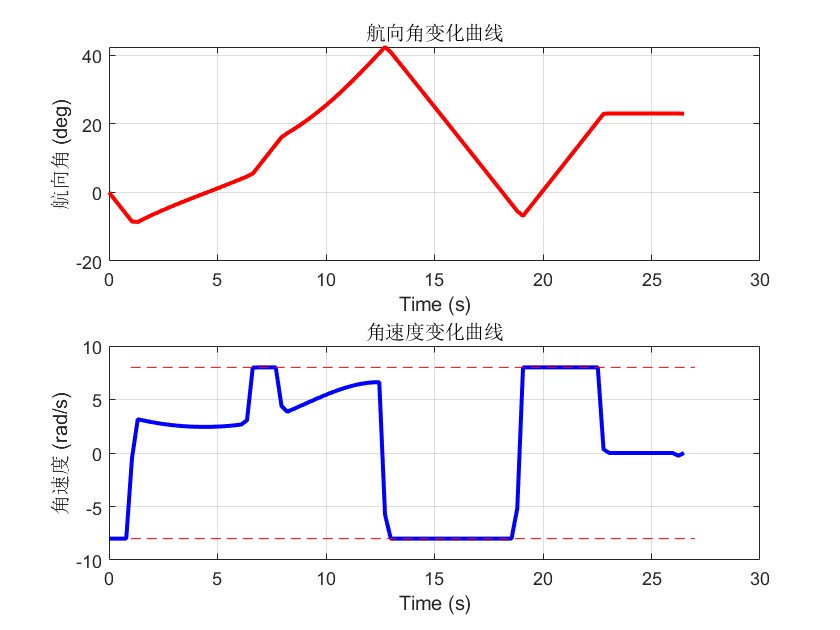
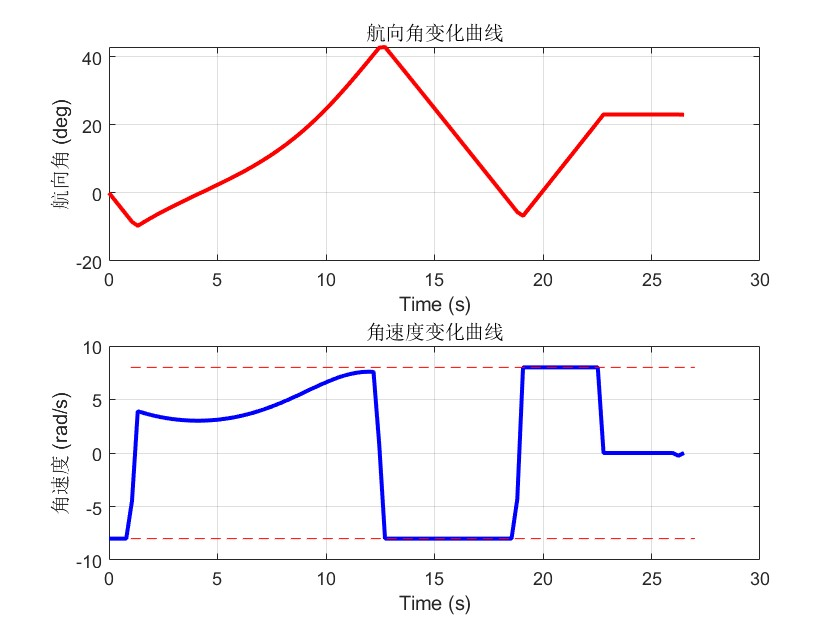
update

diff --git a/TrajectoryPlanning/AvoidandeZone/parameters.m b/TrajectoryPlanning/AvoidandeZone/parameters.m
@@ -2,7 +2,7 @@ function parameters()
     tf=26.5;%总时间 单位[s]
     N=100;%离散点数
     dt=tf/N;%时间间隔
-    max_iterations=3;%最大迭代次数
+    max_iterations=5;%最大迭代次数
     USE_ITERATION=false;%使用迭代条件
     vel=1;%单位 m/s
     z0=[0;0;0];%初始条件
@@ -10,7 +10,7 @@ function parameters()
     % approach cone约束参数
     cone_deg=6;
     cone_horizon_deg=20;
-    Inside_cone_percent=0.2;%在cone内的点数占总点数的百分比
+    Inside_cone_percent=0.1;%在cone内的点数占总点数的百分比
 
     w_max_deg=8;
     w_max_rad=w_max_deg*pi/180;
@@ -36,7 +36,7 @@ function parameters()
     %定义障碍物参数
     obstacles = [
         struct('xc', 5, 'yc', -2.2, 'a', 2, 'b', 1.8);   % 障碍物1
-        struct('xc', 7, 'yc', 2, 'a', 2, 'b', 2.2);     % 障碍物2  
+        struct('xc', 7, 'yc', 2, 'a', 2, 'b', 2.1);     % 障碍物2  
         struct('xc', 16, 'yc', 1, 'a', 3, 'b', 3); % 障碍物3
     ];
     % 保存所有变量到para.mat

diff --git a/TrajectoryPlanning/LaneChange/parameters.m b/TrajectoryPlanning/LaneChange/parameters.m
@@ -3,6 +3,7 @@ function parameters()
     N=100;%离散点数
     dt=tf/N;%时间间隔
     max_iterations=5;%最大迭代次数
+    USE_ITERATION=false;%使用迭代条件
     vel=7;%单位 m/s
     z0=[0;1.75;0];%初始条件
     zf=[100;5.25];%终点位置
@@ -34,7 +35,7 @@ function parameters()
     ];
     % 保存所有变量到para.mat
     filePath = fullfile(pwd, 'para.mat');
-    save(filePath, 'tf', 'z0', 'zf','yc1','yc2', ...
+    save(filePath, 'tf', 'z0', 'zf','yc1','yc2','USE_ITERATION', ...
          'w_max_deg', 'w_max_rad','change_idx',...
          'N', 'k1', 'k2', 'k3',  'vel','Ac','Bc',...
          'A','B','dt','obstacles','max_iterations','epsilon_x','epsilon_y');

diff --git a/TrajectoryPlanning/LaneChange/solve_problemD.m b/TrajectoryPlanning/LaneChange/solve_problemD.m
@@ -45,13 +45,13 @@ function results=solve_problemD(x_init,y_init,params)
 
         max_delta_x(k)=max(abs(solution.z(1,:)-x_prev'));
         max_delta_y(k)=max(abs(solution.z(2,:)-y_prev'));
-        %{
-        if max_delta_x(k)<=params.epsilon_x && ...
-           max_delta_y(k)<=params.epsilon_y
-            act_iterations=k;
-            break;
+        if params.USE_ITERATION==true
+            if max_delta_x(k)<=params.epsilon_x && ...
+            max_delta_y(k)<=params.epsilon_y
+                act_iterations=k;
+                break;
+            end
         end
-        %}
     end
     %存储结果
     results.z_history=z_history;

diff --git a/TrajectoryPlanning/复现结果.md b/TrajectoryPlanning/复现结果.md
@@ -17,20 +17,42 @@
 ### 迭代历史：
 | k | $max\vert\Delta x_i\vert(m)$ | $max\vert\Delta y_i\vert(m)$ | computation time(ms)|
 |:-:|:--------------------:|:--------------------:|:-------------------:|
-| 1 | 0.355628 | 1.568546 | 11.1 |
-| 2 | 0.191471 | 0.342022 | 10.6 |
-| 3 | 0.009585 | 0.029001 | 9.8 |
-| 4 | 0.000054 | 0.000157 | 9.7 |
+| 1 | 0.441510 | 1.489213 | 10.4 |
+| 2 | 0.142055 | 0.447953 | 8.1 |
+| 3 | 0.003463 | 0.020342 | 9.2 |
+| 4 | 0.000044 | 0.000131 | 9.1 |
 
-## 总结
-1. 复现结果体现了论文的核心要点：
+## 总结与思考
+### 1. 复现结果体现了论文的核心要点：
   - `快速收敛`：经过三次迭代就达到了 $\epsilon$ 停止条件
   - `松弛条件有效`：即使混合约束经过了凸松弛，但是fig.3表明这样做是有效的
-  - `Assumption1-4假设成立`：
+  - `Assumption1-4假设基本成立`：
 
 - [x] **Assumption1**: 根据fig.2,heading angle均在$-\frac{\pi}{2}~\frac{\pi}{2}$范围内，假设1成立
-- [x] **Assumption2** : 由fig.2可知控制约束 $|u2/u1|<= w_{max}$ 在 [6.6,7.7] 和 [13,18.6] 时间段内是有效的(达到边界值)，但是由fig.4可知此时的$n^{nc}$约束是不活跃的(没达到边界值)；同样的，在最后3s时间段内，由fig.2可知控制约束 $|u2/u1|<= w_{max}$是不活跃的，由fig.5可知，这时候的$n^c$约束是有效的
+- [x] **Assumption2** : 
+- 在[6.6,7.7]时间段内，由fig.2可知控制约束 $|u2/u1|<= w_{max}$ 时间段内是有效的(达到边界值)，但是由fig.4可知此时的$n^{nc}$约束是不活跃的(没达到边界值)；
+- 在[13,18.6]时间段内，存在违反假设情况，由fig.2可知控制约束 $|u2/u1|<= w_{max}$ 时间段内是有效的(达到边界值)，但是由fig.5可知此时的$n^{nc}$约束是活跃的(没达到边界值)；
 
-| <img src="./assets/avoidbigger.fig"> |
+| <img src="./assets/suceessAvoid1.jpg"> |
 |:--------------------------------------------------------------:|
-|*fig.3 Status of the relaxed constraint*|
+|*fig.4 Assumption2*|
+
+| <img src="./assets/falseAvoid.jpg"> |
+|:--------------------------------------------------------------:|
+|*fig.5 Assumption2*|
+
+
+- 在最后3s时间段内，由fig.2可知控制约束 $|u2/u1|<= w_{max}$是不活跃的，由fig.7可知，这时候的$n^c$约束是有效
+
+| <img src="./assets/suceessAvoid2.jpg"> |
+|:--------------------------------------------------------------:|
+|*fig.7 Assumption2*|
+
+- [x] **Assumption3&4** : 由fig.1可知，所有点都在y=1上,因此$\frac{dy}{dt}=2(y+1)$恒不为0，假设成立
+  
+### 2. 仿真数据与原论文存在较大差别
+1. 原论文中Angular velocity呈现出明显的Bang-Bang控制特性，但是fig.1的前半段数据没有这个特点，这可能是障碍物的位置和大小数据，与初始轨迹的选择与原论文不同导致
+
+2. 原论文中无人机进入approach cone的时候选择贴合theta=17deg的边线，但是我的仿真结果显示无人机会贴合theta=23deg的边线,我的分析是可能受到目标函数的影响，贴合最下面的直线可能是为了降低 $\int f(y)dt$，也不排除是最后一个障碍物的位置影响
+   
+## 实验B:汽车换道
